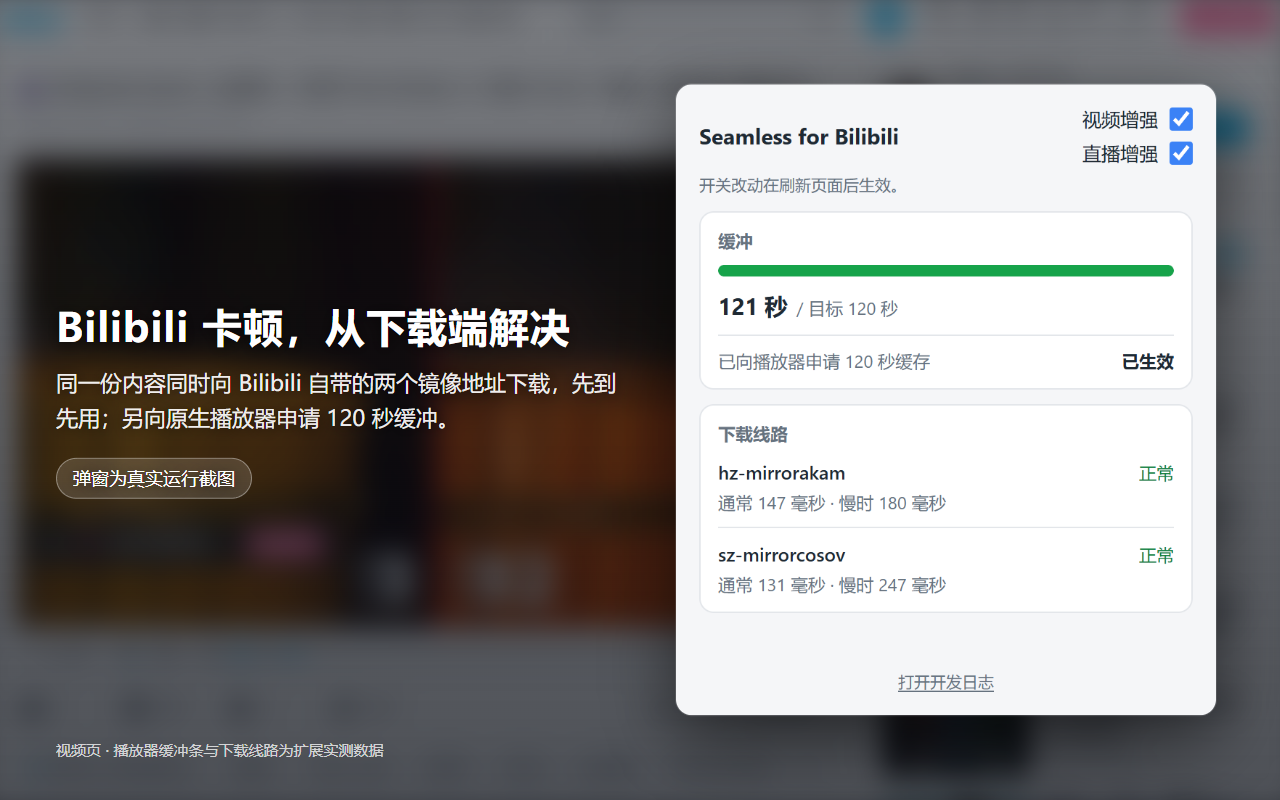
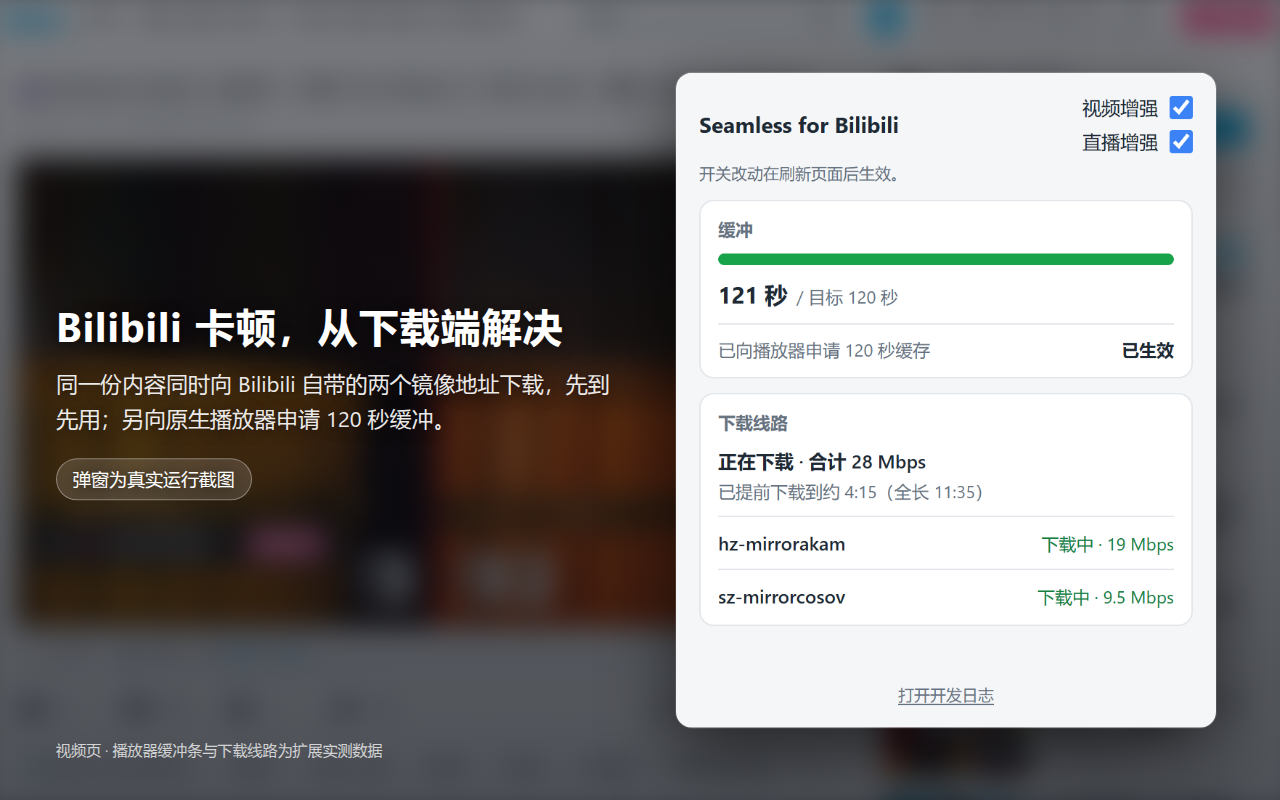
Recapture the store images from the 1.2.0 build
The committed store images still show the 1.1.0 download-line card (the
「正常」 health word and 「通常 N 毫秒」 connection times), which 2b0fbde
replaced with the current-state card; uploading them with 1.2.0 would
advertise a popup the extension no longer ships. The capture script's
health gate also only fit the old card: it never rejected a warn/bad
line tone, a player-waiting headline, a no-records or quiet headline,
or an empty video second line, so a degraded moment could pass as a
store shot.

Evidence: recaptured on Windows (system Chrome 154.0.8037.57, headless,
temp profile) from a scratch copy of 7c128d6; report.json records
buildId src-66aaea6d859900d32f7a642a and the commit sha through
BILIBILI_E2E_COMMIT_SHA (scratch has no git). Video BV1zpaL6sEWj:
buffer 121s/120s applied, headline 正在下载 · 合计 28 Mbps, second line
已提前下载到约 4:15（全长 11:35）, both line rows 下载中 with tone ok;
live room 22748536 (probed off live.bilibili.com/all for a top-document
player): takeover 正在按两条线路竞速下载，FLV 后备已接上, headline
正在下载 · 合计 2.7 Mbps, three line rows 下载中 with tone ok, zero
console errors. The live take exposed that the old takeover check
rejected the routine FLV-backup suffix, so it now compares the racing
prefix; the second take passed the full strengthened gate. compose.mjs
renders all seven PNGs with the layout and font self-checks passing;
the close-ups are byte-identical to the raw captures (744x902 and
744x824), the screenshots are 1280x800, tile 440x280, marquee 1400x560,
[…]

diff --git a/store/images/src/screenshot-video.html b/store/images/src/screenshot-video.html
@@ -40,7 +40,7 @@
     <p>同一份内容同时向 Bilibili 自带的两个镜像地址下载，先到先用；另向原生播放器申请 120 秒缓冲。</p>
     <span class="pill">弹窗为真实运行截图</span>
   </div>
-  <div class="popup"><img src="../popup-video.png" alt="扩展弹窗：缓冲 121 秒 / 目标 120 秒，两条 CDN 线路正常"></div>
+  <div class="popup"><img src="../popup-video.png" alt="扩展弹窗：双增强开关、缓冲条与 120 秒申请状态；下载卡报合计下载速度与视频已提前下载到的位置，每条 CDN 线路一行实时状态；附开发日志入口"></div>
   <div class="credit">视频页 · 播放器缓冲条与下载线路为扩展实测数据</div>
 </body>
 </html>

diff --git a/store/images/src/screenshot-live.html b/store/images/src/screenshot-live.html
@@ -40,7 +40,7 @@
     <p>直播弹窗显示接管状态与线路数据；<!--LIVE_NOTE-->弹窗为真实运行截图。</p>
     <span class="pill">视频与直播都支持</span>
   </div>
-  <div class="popup"><img src="../popup-live.png" alt="扩展弹窗：直播接管状态与下载线路"></div>
+  <div class="popup"><img src="../popup-live.png" alt="扩展弹窗：直播正在按两条线路竞速下载（FLV 后备已接上）；下载卡报合计下载速度与每条线路的实时状态；附开发日志入口"></div>
   <div class="credit">直播页 · 接管状态与线路数据为扩展实测数据</div>
 </body>
 </html>

diff --git a/store/images/README.md b/store/images/README.md
@@ -10,7 +10,7 @@
 | `screenshot-03-racing-diagram.png` | 1280×800 | 机制示意图：双镜像竞速、120 秒缓冲、流量代价 |
 | `promo-tile-440x280.png` | 440×280 | 小型宣传图（必需项） |
 | `marquee-1400x560.png` | 1400×560 | Marquee 宣传图（可选项） |
-| `popup-video.png` / `popup-live.png` | 744×870 / 744×758 | 弹窗特写原图（README 复用；2× 设备像素，完整弹窗：标题行双开关、全部卡片、日志链接都在画内） |
+| `popup-video.png` / `popup-live.png` | 744×902 / 744×824 | 弹窗特写原图（README 复用；2× 设备像素，完整弹窗：标题行双开关、全部卡片、日志链接都在画内） |
 
 ## 再生步骤
 
@@ -21,12 +21,15 @@
    ```
 
    脚本在 `scripts/capture-store-images.mjs`：在 Windows 上用系统 Chrome（`BILIBILI_E2E_CHROME` 指定路径）
-   起一个临时专用 profile，打开一个冷门视频与一个直播间，等真实读数出现（视频页缓冲条到达 120 秒目标、
-   两张线路卡都带连接时间；直播页出现「正在按两条线路竞速下载」），用 `chrome.action.openPopup()` 打开真实弹窗，
+   起一个临时专用 profile，打开一个冷门视频与一个直播间，等真实读数出现（下载卡第一行不是
+   「正在等…」「还没有下载数据」「…最近 5 秒没有收到数据」、每条线路行都不带 warn 或 bad 色调；
+   视频页还要求缓冲条到达 120 秒目标、下载卡第二行不为空；直播页还要求接管行以
+   「正在按两条线路竞速下载」开头，fMP4 直播间在这句后面接的 FLV 后备状态照常接受），
+   用 `chrome.action.openPopup()` 打开真实弹窗，
    捕获明暗两态（暗色经 `prefers-color-scheme` 模拟）与弹窗背后的页面，写出上表输入
    `video-popup-light.png`、`live-popup-light.png`、`video-page.png`、`live-page.png` 与 `report.json`
    （含 commit、buildId、Chrome 版本、视频与房间号、直播格式 FLV/HLS、明暗两态弹窗读数）。
-   读数迟迟不出现就报错退出，绝不静默截一张空弹窗。默认无窗口运行（完整 Chrome 的 `--headless`），不再需要 `--headed`：headless 的虚拟屏幕默认 800×600 设备像素，2× 缩放下只剩 400×300 CSS px，弹窗锚在 y=76 处被钳到 220 CSS px 视口；脚本加 `--screen-info={0,0 3840x2400}` 后实测（Chrome 154）可用屏幕为 1920×1200 CSS px，同一弹窗长到 Chrome 自身 600 CSS px 的弹窗高度上限，高于视频弹窗 435 CSS px 的文档；启动后先读 `screen.availWidth`/`availHeight` 断言该开关生效。弹窗截图前断言弹窗视口装下整个文档，写出后再解码 PNG
+   读数迟迟不出现就报错退出，绝不静默截一张空弹窗。默认无窗口运行（完整 Chrome 的 `--headless`），不再需要 `--headed`：headless 的虚拟屏幕默认 800×600 设备像素，2× 缩放下只剩 400×300 CSS px，弹窗锚在 y=76 处被钳到 220 CSS px 视口；脚本加 `--screen-info={0,0 3840x2400}` 后实测（Chrome 154）可用屏幕为 1920×1200 CSS px，同一弹窗长到 Chrome 自身 600 CSS px 的弹窗高度上限，高于视频弹窗 451 CSS px 的文档（本组实测，第二行更长时会再高一些）；启动后先读 `screen.availWidth`/`availHeight` 断言该开关生效。弹窗截图前断言弹窗视口装下整个文档，写出后再解码 PNG
    断言「打开开发日志」区域有墨迹，任一不满足即报错退出；测试浏览器只按 PID 结束（其命令行含本次临时 profile 路径）。
 2. `node store/images/src/compose.mjs` → 弹窗特写按原始捕获的完整尺寸原样导出（不做裁切），并渲染上表全部 PNG。
    每张图渲染前自检：弹窗、说明语和文字块不出画，说明语不压弹窗，标题只在词边界换行，背景页面截图必须加载成功；任一不满足即报错退出。
@@ -39,8 +42,9 @@
 
 ## 已提交图片的捕获来源
 
-- commit `0fe2108deb1854b6791a1b23bc1a78e059d8895a`（工作区于 Windows scratch 按此提交内容运行，scratch 内无 git，`report.json` 的 `commitSha` 由环境变量如实记入并注明原因；`src/` 与 `dist/` 与 `6410ad6` 相同），buildId `src-320b6f176a4377a3036f5ba7`（与 `report.json` 的 `provenance` 一致，随捕获自动写入）；Chrome 154.0.8037.57（系统 Chrome，Windows），无窗口模式（`--headless`，`report.json` 的 `launchMode` 为 `spawn+connectOverCDP headless`），`--screen-info={0,0 3840x2400}`（启动后读得可用屏幕 1920×1200 CSS px），临时专用 profile，未登录，`--force-device-scale-factor=2`，`--window-position=0,0`。
-- 视频：BV1zpaL6sEWj（播放量 828 的冷门视频，时长 11 分 35 秒；上一组捕获里 BV1esa36qEbN 的线路卡两次带红，故沿用上一组验证过的这个视频），缓冲 121 秒 / 目标 120 秒已生效，两条线路卡均「正常」且带连接时间（hz-mirrorakam 通常 147 毫秒、sz-mirrorcosov 通常 131 毫秒）；直播：房间 1907449398（按 `BILIBILI_STORE_LIVE_URL` 覆盖；从 live.bilibili.com/all 的房间链接里逐个探测顶层 video 选出，默认的赛事房 6 把播放器装进独立 iframe，顶层文档等不到 video 元素），播放器走 HLS（`report.json` 的 `liveFormat` 为 `HLS`），弹窗显示「正在按两条线路竞速下载」，两条线路（ov-gotcha207 与 ov-gotcha207b）均「正常」。
-- 本组一次捕获即通过，无废跑；捕获期间控制台错误 0 条。弹窗读数（双开关、缓冲条、120 秒申请状态、线路健康词与连接时间、直播接管行）来自真实运行，深色模式经 `prefers-color-scheme` 模拟；两张弹窗明暗两态的四张线路卡健康词均为「正常」（`tone` 为 `ok`，健康词为绿色）。弹窗视口与文档等大（视频 372×435 CSS px、直播 372×379 CSS px，2× 设备像素即 744×870 与 744×758），链接区墨迹与上一组逐项一致（明 1612 / 暗 1623，两张弹窗同数），视口与文档尺寸连同链接坐标写入 `report.json` 供复核。
-- 本组捕获时三张确定性渲染图（机制示意图、小宣传图、Marquee）与上一组逐字节一致；四张随运行取数的图（两张弹窗特写与两张 1280x800 截图）为本组新图。
-- 图标换成带速度线的字母 B 后，小宣传图与 Marquee 用同一组原始捕获经 `compose.mjs` 本地重渲染（只换 `tile.html`/`marquee.html` 的图标字形，徽章样式、文字与版式不变），提交件不再与本组捕获时的像素一致；其余五张（机制示意图、两张弹窗特写、两张 1280x800 截图）仍是本组捕获的提交内容，未重捕、逐字节未动。
+- commit `7c128d66a2d673e6f79602de6748950b27bde202`（工作区于 Windows scratch 按此提交内容运行，scratch 内无 git，`report.json` 的 `commitSha` 经 `BILIBILI_E2E_COMMIT_SHA` 环境变量如实记入并注明原因；`src/` 与 `dist/` 与该提交逐字节一致），buildId `src-66aaea6d859900d32f7a642a`（与 `report.json` 的 `provenance` 一致，随捕获自动写入）；Chrome 154.0.8037.57（系统 Chrome，Windows），无窗口模式（`--headless`，`report.json` 的 `launchMode` 为 `spawn+connectOverCDP headless`），`--screen-info={0,0 3840x2400}`（启动后读得可用屏幕 1920×1200 CSS px），临时专用 profile，未登录，`--force-device-scale-factor=2`，`--window-position=0,0`。
+- 视频：BV1zpaL6sEWj（同上一组验证过的冷门视频，时长 11 分 35 秒），缓冲 121 秒 / 目标 120 秒已生效；直播：房间 22748536（按 `BILIBILI_STORE_LIVE_URL` 覆盖；从 live.bilibili.com/all 的房间链接里逐个探测顶层 video 选出，把播放器装进 iframe 的房间探测阶段直接跳过），播放器走 HLS（`report.json` 的 `liveFormat` 为 `HLS`），fMP4 直播间的接管行带 FLV 后备状态。
+- 视频弹窗读数（亮色捕获，即提交图片里的弹窗；写入 `report.json` 的 `scenarios.video.readout`）：下载卡第一行「正在下载 · 合计 28 Mbps」，第二行「已提前下载到约 4:15（全长 11:35）」，线路行 hz-mirrorakam「下载中 · 19 Mbps」、sz-mirrorcosov「下载中 · 9.5 Mbps」（`tone` 均 `ok`）；缓冲条「已缓冲 121 秒 / 目标 120 秒」，申请状态「已生效」。暗色捕获第一行「正在下载 · 合计 60 Mbps」，第二行「已提前下载到约 11:01（全长 11:35）」，两条线路行均下载中（hz-mirrorakam 45 Mbps、sz-mirrorcosov 15 Mbps，`tone` 均 `ok`）。
+- 直播弹窗读数（明暗两态一致）：下载卡第一行「正在下载 · 合计 2.7 Mbps」，直播卡没有第二行；接管行「正在按两条线路竞速下载，FLV 后备已接上」；线路行 ov-gotcha07「下载中 · 0.3 Mbps」、ov-gotcha207「下载中 · 1.9 Mbps」、ov-gotcha207b「下载中 · 0.4 Mbps」（`tone` 均 `ok`）。
+- 本组视频场景一次通过；直播场景第一跑被脚本旧的整行比对拒绝（该直播间接管行带「，FLV 后备已接上」后缀，属常态），脚本改为前缀比对后第二跑通过，读数即上条。捕获期间控制台错误 0 条。弹窗视口与文档等大（视频 372×451 CSS px、直播 372×412 CSS px，2× 设备像素即 744×902 与 744×824），写出后逐张解码 PNG 断言链接区有墨迹（明 1612 墨点 / 暗 1623 墨点，两张弹窗同数，与上一组一致），视口与文档尺寸连同链接坐标写入 `report.json` 供复核。
+- 七张提交图全部由本组原始文件与当前源经 `compose.mjs` 一次渲染：两张弹窗特写与两张 1280×800 截图内嵌的弹窗取亮色捕获，为本组新图；机制示意图源未变、为重渲染结果（勾号字形随平台字体回退而不同）；小宣传图与 Marquee 源未变，重渲染后与上一版逐字节一致。
